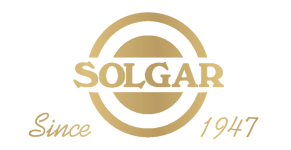
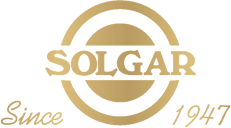
Solgar logosu AGGİK/Nur boyuna getirildi, Nilda Home'da 'nilda' yazısı oyuk yapıldı
Claude-Session: https://claude.ai/code/session_012BNp5mRRPRP2FwvZs76yVn

diff --git a/app/content/clients.ts b/app/content/clients.ts
@@ -31,6 +31,8 @@ export interface Client {
   /** Logonun doğal boyutu — `aspect-ratio` için (yerleşim kayması olmaz). */
   width: number;
   height: number;
+  /** Oran > 1.6 olsa da kare logo yüksekliğiyle basılır (bkz. FORCE_SQUARE). */
+  square?: boolean;
   /** Opsiyonel dış bağlantı (firmanın sitesi). */
   href?: string;
 }
@@ -61,7 +63,10 @@ const NAMES: Readonly<Record<string, string>> = {
   abbott: "ABBOTT",
 };
 
-const prefixOf = (file: string) => {
+/** Yatay oranı eşiği aşan ama rozet gibi okunan logolar (AGGİK, Nur ile aynı boy). */
+const FORCE_SQUARE: ReadonlySet<string> = new Set(["solgar"]);
+
+const prefixOf =(file: string) => {
   const match = /^(\d+)-/.exec(file);
   return match ? Number(match[1]) : Infinity;
 };
@@ -274,6 +279,7 @@ function readLogoClients(): Client[] {
         logo: info.maskUri ?? `/${FOLDER}/${encodeURIComponent(file)}`,
         width: info.width,
         height: info.height,
+        ...(FORCE_SQUARE.has(key) ? { square: true } : {}),
       } satisfies Client;
     })
     .filter((client): client is Client => client !== null);

diff --git a/app/page.tsx b/app/page.tsx
@@ -298,7 +298,7 @@ export default function Home() {
                 const mark = (
                   <span
                     className={
-                      ratio <= SQUARE_MAX_RATIO
+                      client.square || ratio <= SQUARE_MAX_RATIO
                         ? "clients__logo clients__logo--square"
                         : ratio > VERY_WIDE_MIN_RATIO
                           ? "clients__logo clients__logo--very-wide"
